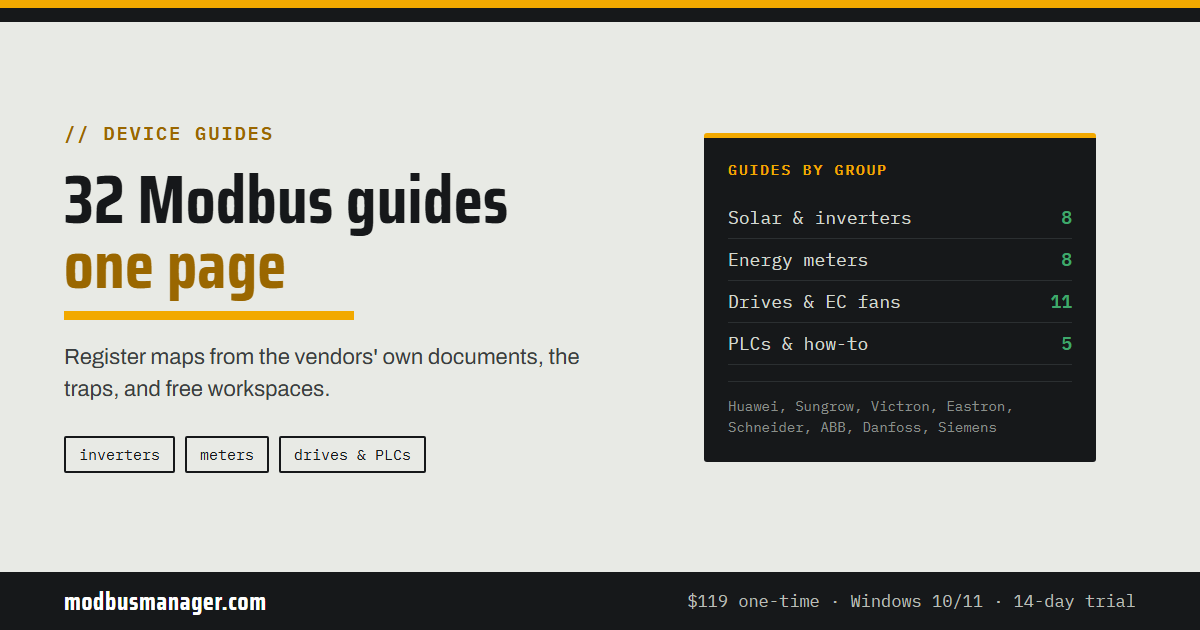
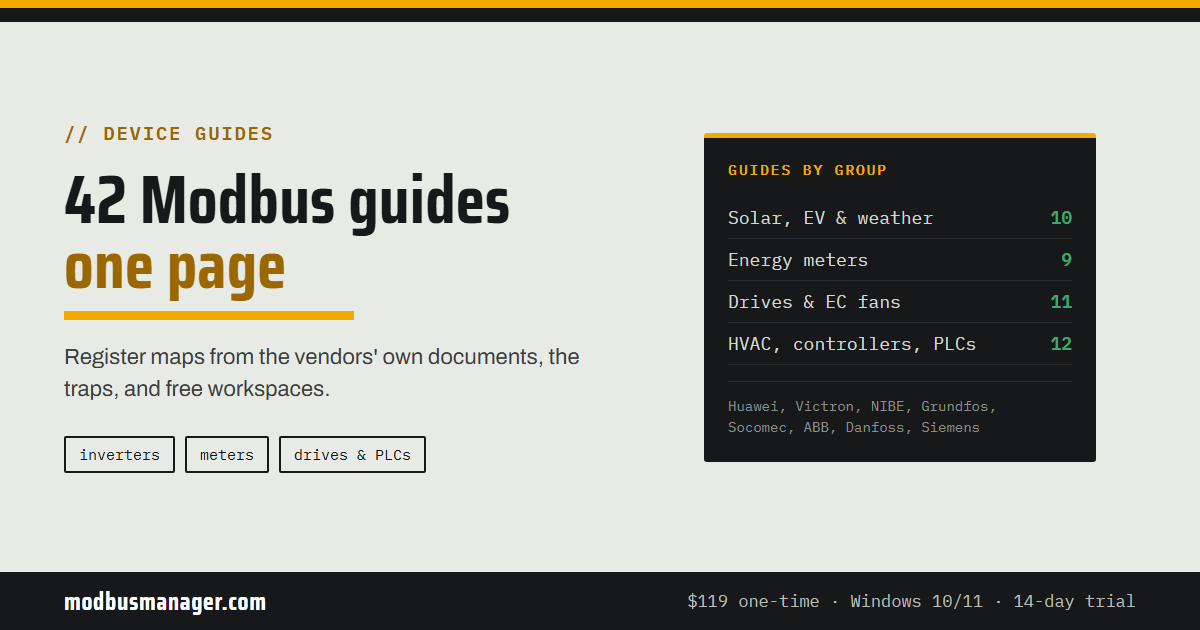
Guides hub: rebuilt with the 10 new device pages (42 guides, groups Heat pumps & HVAC, Controllers, EV charging), OG card updated

diff --git a/modbus-device-guides.html b/modbus-device-guides.html
@@ -4,7 +4,7 @@
 <meta charset="UTF-8">
 <meta name="viewport" content="width=device-width, initial-scale=1.0">
 <title>Modbus Device Guides: Inverters, Meters, Drives, PLCs</title>
-<meta name="description" content="32 Modbus guides: Huawei, Sungrow, Victron, Eastron, Schneider, ABB, Danfoss, Siemens and more — register maps from vendor documents, traps, free workspaces.">
+<meta name="description" content="42 Modbus guides: Huawei, Sungrow, Victron, Eastron, Schneider, ABB, Danfoss, Siemens and more — register maps from vendor documents, traps, free workspaces.">
 <meta name="keywords" content="Modbus device guides, Modbus register map, Modbus inverter, Modbus energy meter, Modbus VFD, Modbus PLC">
 <meta name="author" content="ModbusManager">
 <meta name="robots" content="index, follow">
@@ -362,7 +362,7 @@ nav .nav-links.open .nd-head{padding:0.45rem 0 0.1rem}
 
   <h1>Modbus Device Guides and How-tos</h1>
 
-  <p class="lead">Every guide on this site in one place: 32 pages on reading real devices over Modbus &mdash; inverters, energy meters, drives, PLCs &mdash; and on the protocol details that trip people up. Each device guide has its register map from the vendor's own documents, the traps an integrator meets, and most come with a free ModbusManager workspace you can open and point at your device.</p>
+  <p class="lead">Every guide on this site in one place: 42 pages on reading real devices over Modbus &mdash; inverters, energy meters, drives, PLCs &mdash; and on the protocol details that trip people up. Each device guide has its register map from the vendor's own documents, the traps an integrator meets, and most come with a free ModbusManager workspace you can open and point at your device.</p>
 
   <style>
   .gh-group{margin:2rem 0 0}
@@ -384,6 +384,12 @@ nav .nav-links.open .nd-head{padding:0.45rem 0 0.1rem}
       <a class="gh-card" href="/victron-gx-modbus-tcp.html"><span class="gh-name">Victron Cerbo GX</span><span class="gh-ws">free workspace</span><span class="gh-desc">Victron GX Modbus TCP: enable the server, Unit-ID 100 for system data, 227 for the MultiPlus, registers 840-850, scale factors, 0x0A/0x0B. Free workspace.</span></a>
       <a class="gh-card" href="/goodwe-et-hybrid-modbus.html"><span class="gh-name">GoodWe ET Hybrid</span><span class="gh-ws">free workspace</span><span class="gh-desc">GoodWe ET / EH hybrid inverter Modbus: factory address 247, 9600 8N1, FC03, PV at 35103, battery 35180, SOC 37007, work and battery mode. Free workspace.</span></a>
       <a class="gh-card" href="/deye-sunsynk-growatt-modbus.html"><span class="gh-name">Deye, Sunsynk &amp; Growatt</span><span class="gh-ws">free workspace</span><span class="gh-desc">Deye, Sunsynk and Growatt hybrid inverter Modbus registers: battery SOC, grid and load power, signs, FC03 vs FC04, word order, RS485 settings, free workspace.</span></a>
+      <a class="gh-card" href="/lufft-ws-weather-sensor-modbus.html"><span class="gh-name">Lufft WS weather sensors</span><span class="gh-ws">free workspace</span><span class="gh-desc">Lufft WS200-WS600 weather sensor Modbus RTU: switch from UMB with the Config Tool, 19200 8E1, Reg. Addr. vs Reg. No., 65535 = not fitted. Free workspace.</span></a>
+  </div>
+
+  <h2 class="gh-group">EV charging</h2>
+  <div class="gh-grid">
+      <a class="gh-card" href="/alfen-eve-modbus.html"><span class="gh-name">Alfen Eve EV charger</span><span class="gh-ws">free workspace</span><span class="gh-desc">Alfen Eve (NG9xx) Modbus TCP: licence, unit ID 200 station / 1 socket, FLOAT32 meter, Mode 3 state string, max current every 60 s. Free workspace.</span></a>
   </div>
 
   <h2 class="gh-group">Energy meters</h2>
@@ -395,7 +401,16 @@ nav .nav-links.open .nd-head{padding:0.45rem 0 0.1rem}
       <a class="gh-card" href="/eastron-sdm230-sdm72-modbus.html"><span class="gh-name">Eastron SDM230 / SDM72</span><span class="gh-ws">free workspace</span><span class="gh-desc">Eastron SDM230 and SDM72 Modbus: FC04 input registers, even register count, 30 values max, SDM72D-M nine registers vs SDM72DM-V2. Free workspace.</span></a>
       <a class="gh-card" href="/carlo-gavazzi-em24-em340-modbus.html"><span class="gh-name">Carlo Gavazzi EM340 / EM24</span><span class="gh-ws">free workspace</span><span class="gh-desc">Carlo Gavazzi EM340 / EM24 Modbus: physical = Modicom - 300001, INT32 low word first, V x10, A x1000, FC03 = FC04, EM24 E1 192.168.1.10. Free workspace.</span></a>
       <a class="gh-card" href="/janitza-umg-96-pa-modbus.html"><span class="gh-name">Janitza UMG 96-PA</span><span class="gh-ws">free workspace</span><span class="gh-desc">Janitza UMG 96-PA Modbus: the 19000 Float32 block, W and Wh units, little-endian at address + 32768, baud rate Auto, address 1-250. Free workspace.</span></a>
+      <a class="gh-card" href="/socomec-diris-a40-modbus.html"><span class="gh-name">Socomec DIRIS A-40</span><span class="gh-ws">free workspace</span><span class="gh-desc">Socomec DIRIS A-40 Modbus table: legacy block 50512 (power in 10 W) vs 18476 (W), frequency Hz/100 vs mHz, THD and harmonics. Free workspace.</span></a>
       <a class="gh-card" href="/wattnode-modbus.html"><span class="gh-name">WattNode</span><span class="gh-desc">Why a new WattNode reads voltage correctly but power wrong, which register fixes it, and how to commission the meter over RS-485 in minutes.</span></a>
+  </div>
+
+  <h2 class="gh-group">Heat pumps &amp; HVAC</h2>
+  <div class="gh-grid">
+      <a class="gh-card" href="/nibe-s-series-modbus.html"><span class="gh-name">NIBE S-series heat pumps</span><span class="gh-ws">free workspace</span><span class="gh-desc">NIBE S1155/S1255 Modbus TCP: switch it on in menu 7.5.9, port 502, FC04 measurements, FC03 settings, degree minutes, 20-register limit. Free workspace.</span></a>
+      <a class="gh-card" href="/coolmaster-vrf-modbus.html"><span class="gh-name">CoolMasterNet VRF</span><span class="gh-ws">free workspace</span><span class="gh-desc">CoolMasterNet Modbus for Daikin, Mitsubishi, LG VRF: Virtual Addresses, unit ID 80, the 16-address block per indoor unit, fault 65535. Free workspace.</span></a>
+      <a class="gh-card" href="/grundfos-magna3-cim-modbus.html"><span class="gh-name">Grundfos MAGNA3 (CIM)</span><span class="gh-ws">free workspace</span><span class="gh-desc">Grundfos MAGNA3 Modbus via CIM 200 (RTU 19200 8E1) or CIM 500 (TCP): register X = wire X-1, remote access bit, setpoint in %. Free workspace.</span></a>
+      <a class="gh-card" href="/carel-pco-modbus.html"><span class="gh-name">Carel pCO (chiller / AHU)</span><span class="gh-ws">free workspace</span><span class="gh-desc">Carel pCO Modbus: D[n] = coil n, A[n] = register n x 10, I[n] = register 128 + n, the threshold, n or n+1, and a chiller example. Free workspace.</span></a>
   </div>
 
   <h2 class="gh-group">Drives &amp; EC fans</h2>
@@ -417,6 +432,13 @@ nav .nav-links.open .nd-head{padding:0.45rem 0 0.1rem}
   <div class="gh-grid">
       <a class="gh-card" href="/modbus-hmi-siemens-s7-1200.html"><span class="gh-name">Siemens S7-1200 HMI</span><span class="gh-desc">Turn ModbusManager Pro into a live HMI for your S7-1200 over Modbus TCP. Free demo project with SCL code and workspace you can run on real hardware.</span></a>
       <a class="gh-card" href="/siemens-s7-put-get.html"><span class="gh-name">Siemens S7 PUT/GET</span><span class="gh-ws">free workspace</span><span class="gh-desc">Read and write Siemens S7-1200/1500 DBs, merkers and I/O from a PC over PUT/GET: TIA settings, address format, HMI, logging and an S7-Modbus gateway.</span></a>
+  </div>
+
+  <h2 class="gh-group">Controllers</h2>
+  <div class="gh-grid">
+      <a class="gh-card" href="/omron-e5cc-modbus.html"><span class="gh-name">Omron E5CC temperature controller</span><span class="gh-ws">free workspace</span><span class="gh-desc">Omron E5CC Modbus RTU: switch PSEL from CompoWay/F, 4-byte map at 0x0000 vs 2-byte at 0x2000, Decimal Point Monitor, RUN/STOP bit. Free workspace.</span></a>
+      <a class="gh-card" href="/danfoss-ak-cc-350-modbus.html"><span class="gh-name">Danfoss AK-CC 350 case controller</span><span class="gh-ws">free workspace</span><span class="gh-desc">Danfoss AK-CC 350 case controller Modbus: PNU minus one, temperatures as one register x 0.1, r00 cutout, EKC state, alarm bits 20000+. Free workspace.</span></a>
+      <a class="gh-card" href="/deepsea-dse7320-modbus.html"><span class="gh-name">Deep Sea DSE7320 generator</span><span class="gh-ws">free workspace</span><span class="gh-desc">DSE7320 MKII Modbus RTU via GenComm: address = page x 256 + offset, 8N1, sentinels like 0xFFFF, alarm flags, start/stop keys. Free workspace.</span></a>
   </div>
 
   <h2 class="gh-group">Modbus how-to</h2>
